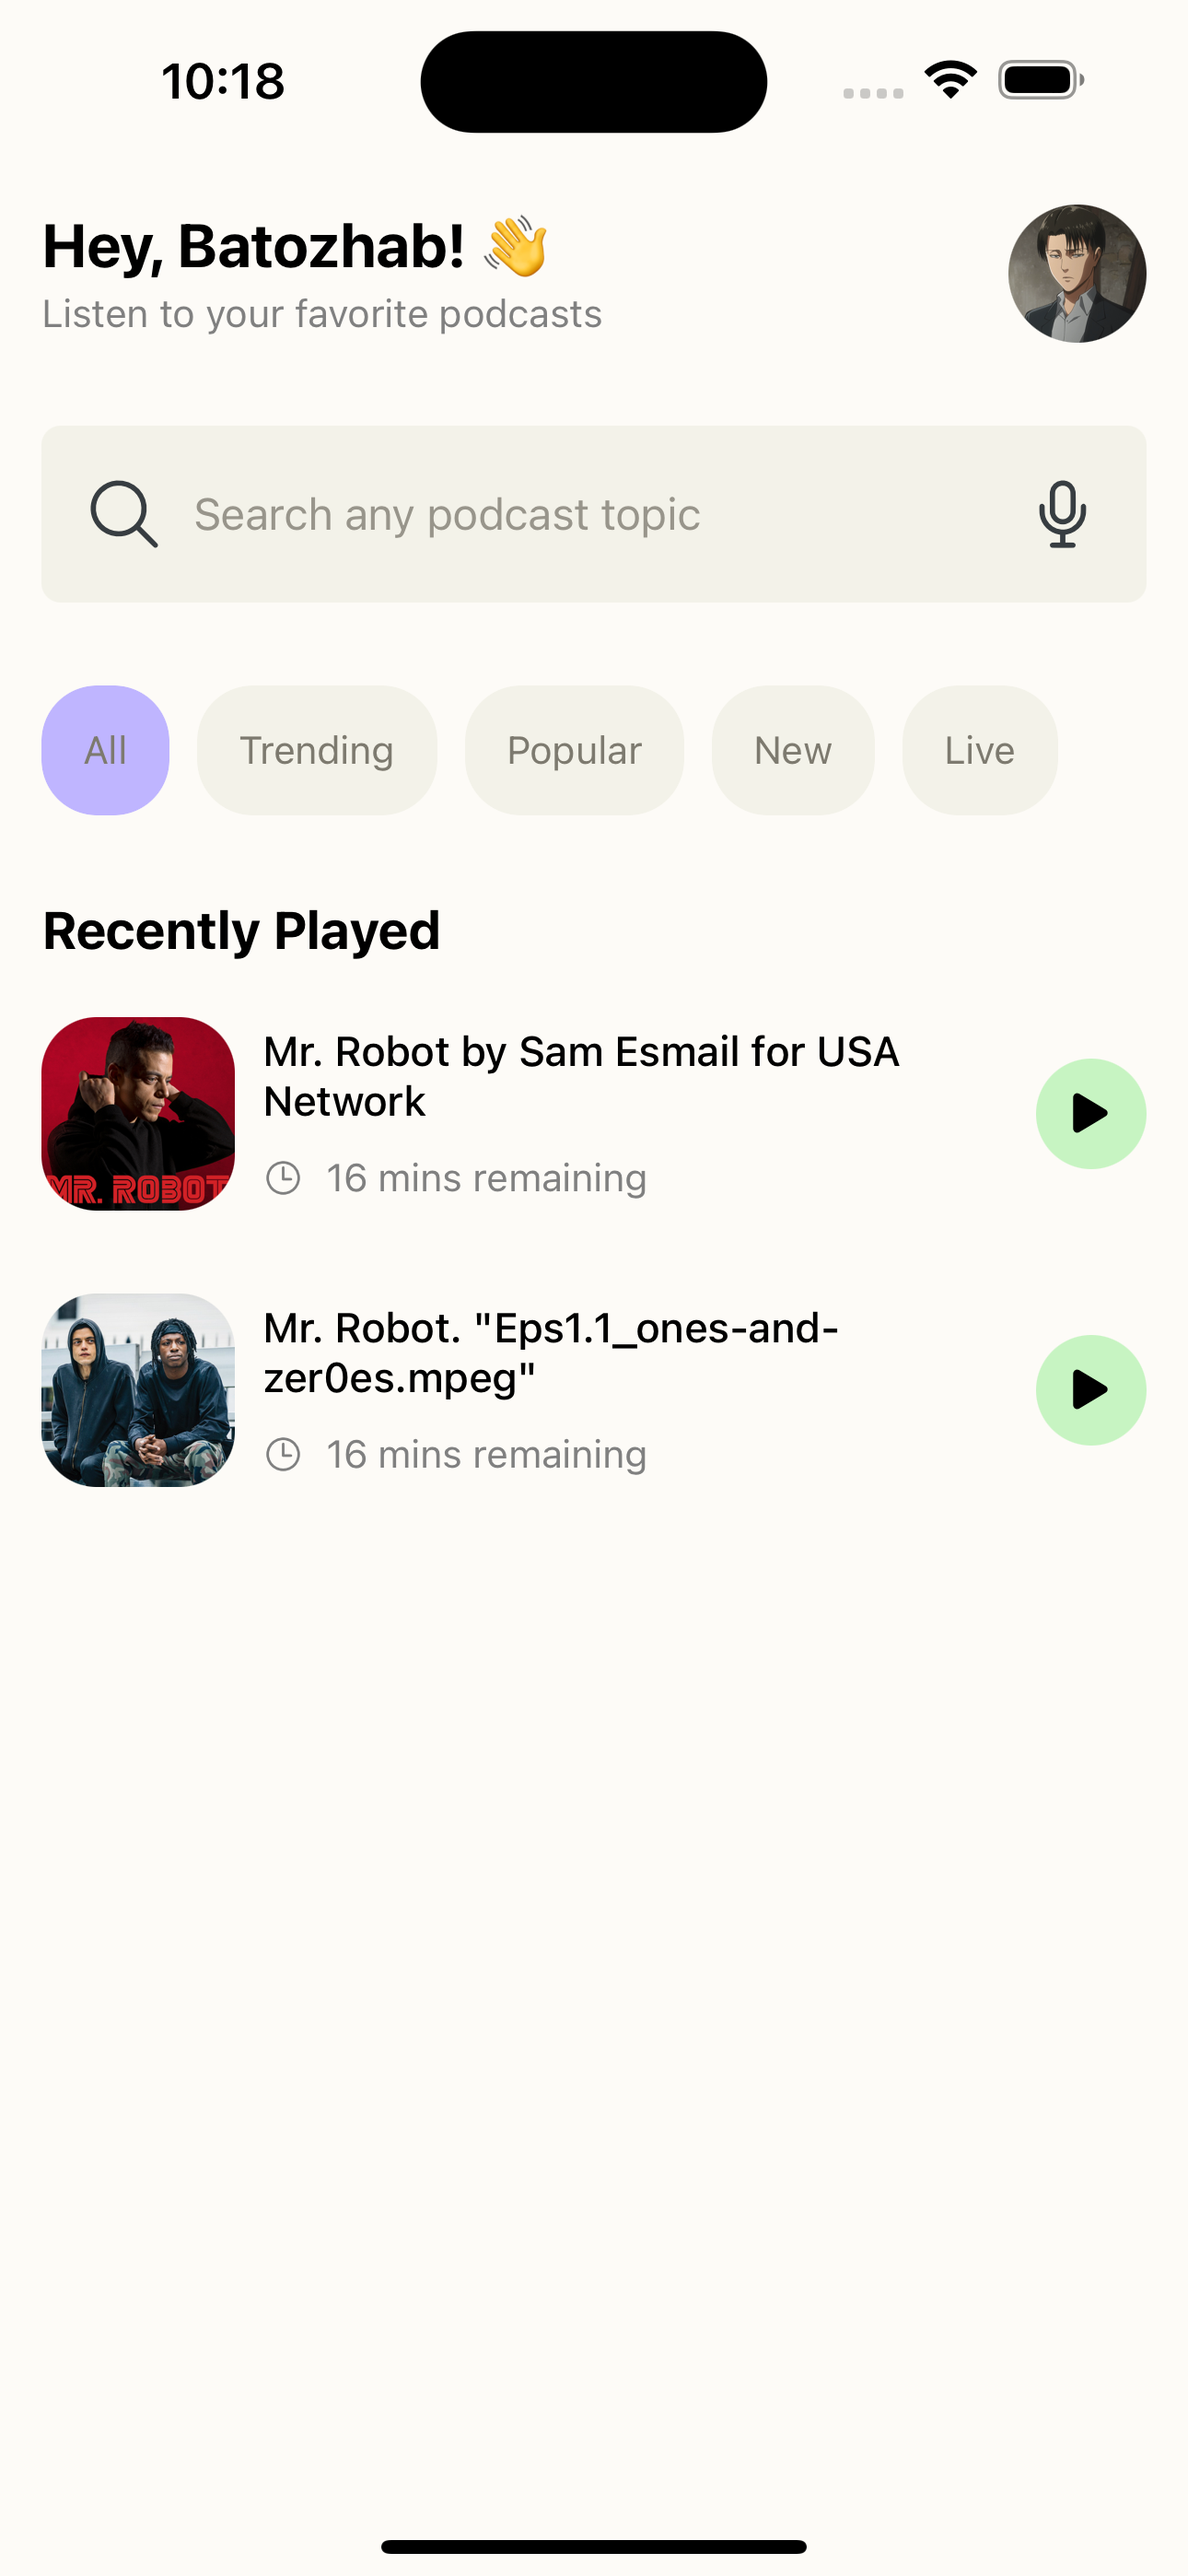
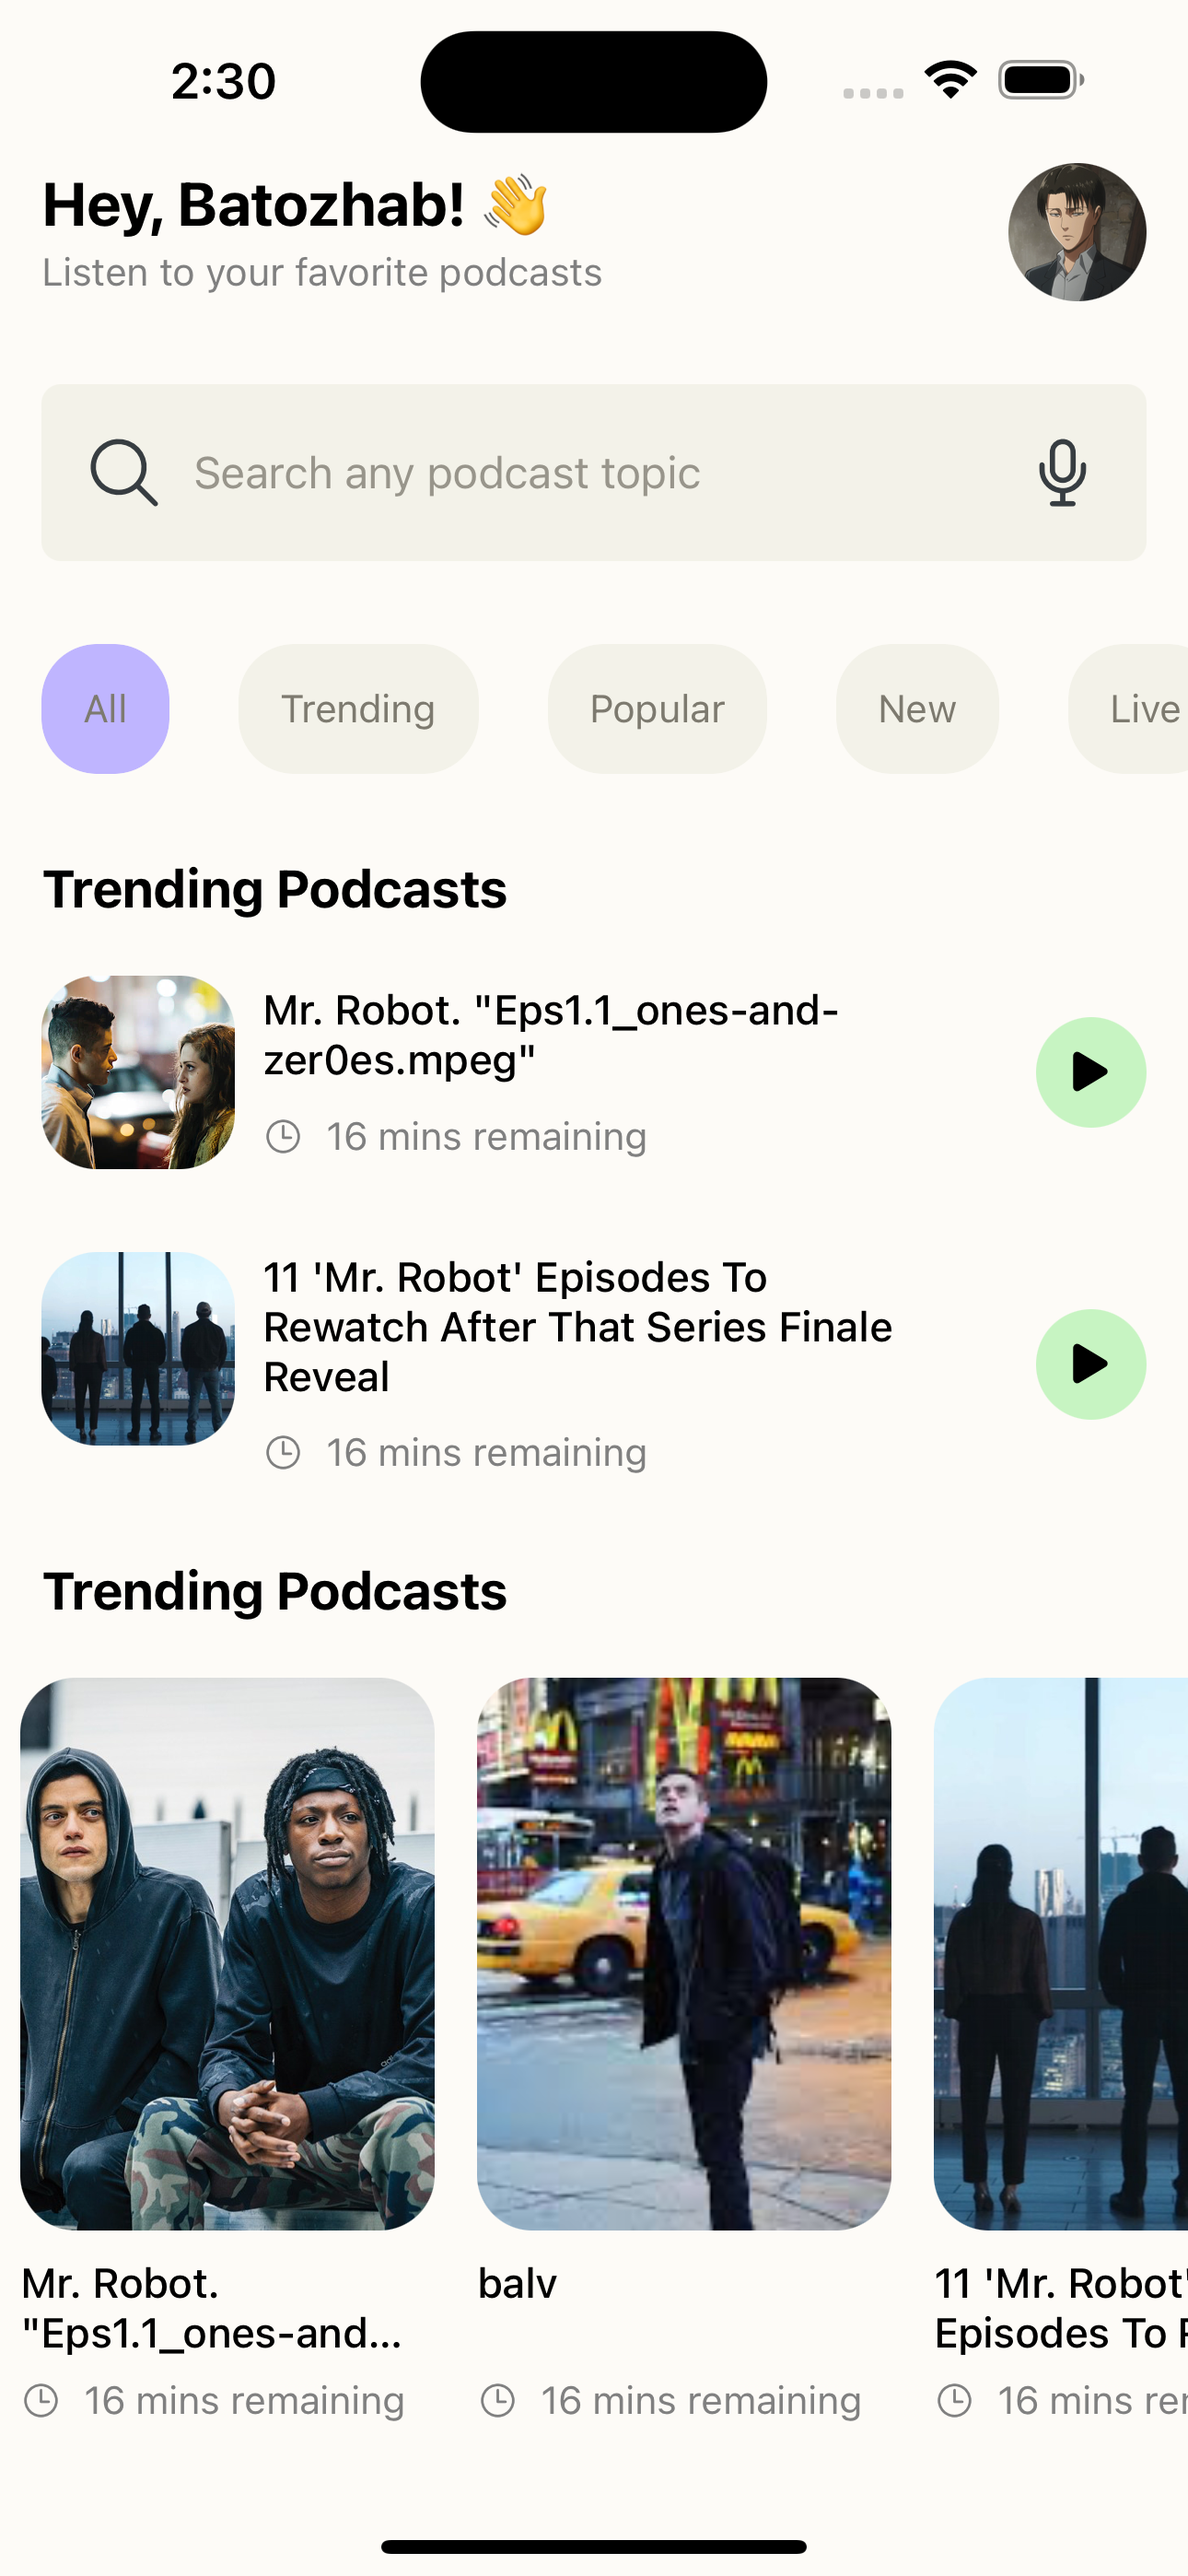
*fix

diff --git a/src/services/fakeData.ts b/src/services/fakeData.ts
@@ -22,7 +22,7 @@ export const recentlyPodcasts = [
   {
     id: 2,
     text: 'Mr. Robot. "Eps1.1_ones-and-zer0es.mpeg"',
-    url: `https://www.billboard.com/wp-content/uploads/media/Joey-Badass-in-Mr-Robot-press-photo-2017-billboard-1548.jpg?w=1024`,
+    url: `https://s.yimg.com/ny/api/res/1.2/NtEgwKL6Ro7gdQV.3oKKpg--/YXBwaWQ9aGlnaGxhbmRlcjt3PTY0MDtoPTQzNA--/https://media.zenfs.com/en-us/homerun/tvline.com/035d051c00ecc1104cc20e82d4517fa6`,
   },
   {
     id: 3,
@@ -32,6 +32,11 @@ export const recentlyPodcasts = [
   {
     id: 4,
     text: 'balv',
-    url: `https://www.billboard.com/wp-content/uploads/media/Joey-Badass-in-Mr-Robot-press-photo-2017-billboard-1548.jpg?w=1024`,
+    url: `https://encrypted-tbn0.gstatic.com/images?q=tbn:ANd9GcR601_nbvoLXfF7jMnQ-N3BYhIC4ZtSiSoqXA&usqp=CAU`,
+  },
+  {
+    id: 5,
+    text: "11 'Mr. Robot' Episodes To Rewatch After That Series Finale Reveal",
+    url: `https://imgix.bustle.com/uploads/image/2019/12/23/c33f7c88-073a-4d7c-bada-d272a7c8759b-screen-shot-2019-12-22-at-23740-pm-1.png?w=1200&h=630&fit=crop&crop=faces&fm=jpg`,
   },
 ];

diff --git a/src/ui/components/main/SectionItemCoverView.tsx b/src/ui/components/main/SectionItemCoverView.tsx
@@ -37,7 +37,8 @@ export default SectionItemCoverView;
 const styles = StyleSheet.create({
   container: {
     width: SCREEN_WIDTH / 3,
-    marginEnd: 20,
+    marginStart: 15,
+    marginRight: 7,
   },
   row: {
     flexDirection: 'row',

diff --git a/src/ui/components/main/MainTitleView.tsx b/src/ui/components/main/MainTitleView.tsx
@@ -25,6 +25,7 @@ const styles = StyleSheet.create({
     flexDirection: 'row',
     justifyContent: 'space-between',
     alignItems: 'center',
+    marginHorizontal: 15,
   },
   titleText: {
     fontSize: 22,

diff --git a/src/ui/components/main/SectionItemView.tsx b/src/ui/components/main/SectionItemView.tsx
@@ -39,6 +39,7 @@ export default SectionItemView;
 const styles = StyleSheet.create({
   container: {
     width: SCREEN_WIDTH - 30,
+    marginStart: 15,
   },
   row: {
     flexDirection: 'row',

diff --git a/src/ui/components/main/SearchView.tsx b/src/ui/components/main/SearchView.tsx
@@ -28,6 +28,7 @@ const styles = StyleSheet.create({
     padding: 15,
     paddingVertical: 17,
     borderRadius: 7,
+    marginHorizontal: 15,
   },
   placeholderText: {
     color: '#98958b',

diff --git a/src/ui/components/main/FilterScrollView.tsx b/src/ui/components/main/FilterScrollView.tsx
@@ -35,6 +35,7 @@ const styles = StyleSheet.create({
     borderRadius: 20,
     marginEnd: 10,
     overflow: 'hidden',
+    marginStart: 15,
   },
   text: {color: '#7d7a6f'},
 });

diff --git a/src/ui/screens/Main/MainScreen.tsx b/src/ui/screens/Main/MainScreen.tsx
@@ -52,7 +52,6 @@ export default MainScreen;
 const styles = StyleSheet.create({
   container: {
     flex: 1,
-    padding: 15,
     gap: 30,
   },
   trackContainer: {

diff --git a/src/ui/components/main/SectionView.tsx b/src/ui/components/main/SectionView.tsx
@@ -51,5 +51,6 @@ const styles = StyleSheet.create({
   title: {
     fontWeight: 'bold',
     fontSize: 19,
+    marginStart: 15,
   },
 });
